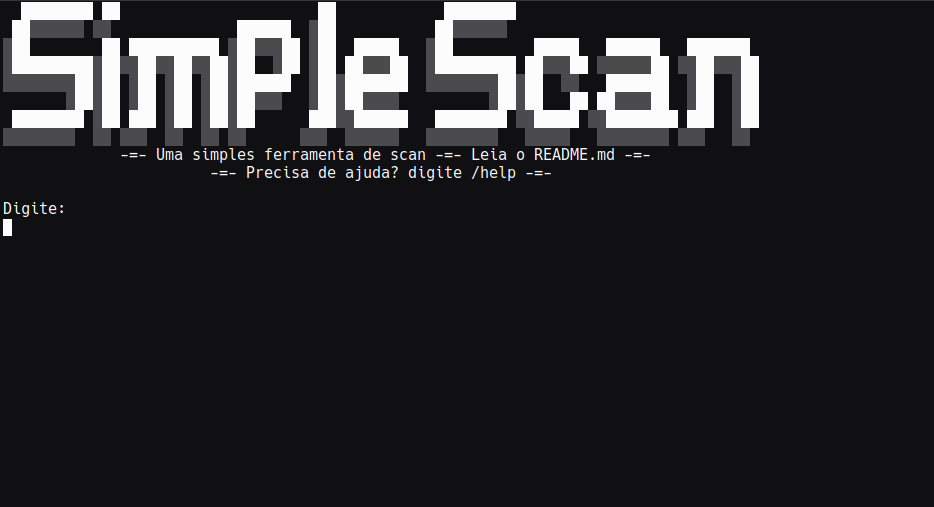
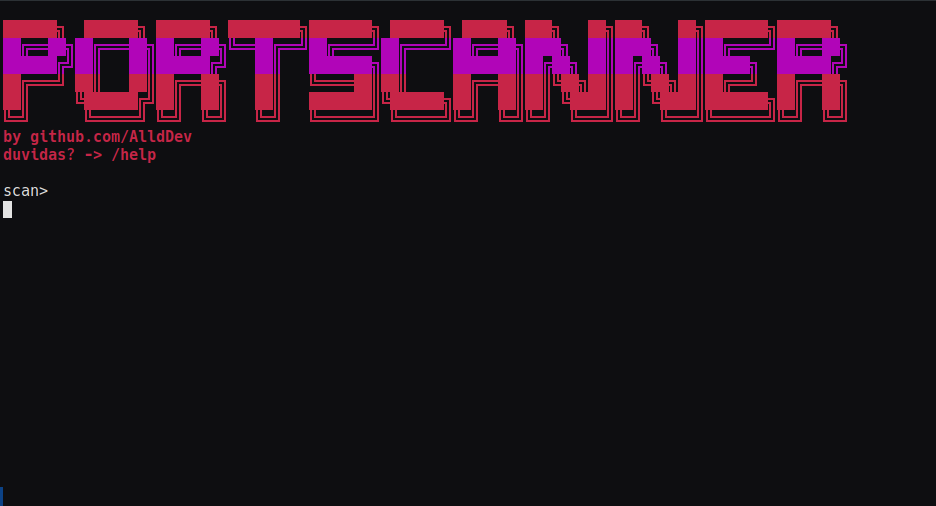
Mudando a interface!

Changed region(s): [[0.0, 0.0, 0.9315, 0.3557], [0.0, 0.3557, 0.0621, 0.4743], [0.0, 0.9783, 0.031, 1.0]]

diff --git a/portscanner.py b/portscanner.py
@@ -71,8 +71,7 @@ def menuExibir():
 def menuHelp():
     os.system('cls||clear')
     menuExibir()
-    print(f'''
-{cores['vermelho']}* MODO DE UTILIZAR{cores['limpar']}
+    print(f'''{cores['vermelho']}* MODO DE UTILIZAR{cores['limpar']}
 /scan {cores['verde']}<alvo>{cores['limpar']} -p {cores['azul']}<porta>{cores['limpar']} -m {cores['magenta']}<modo>{cores['limpar']}
 
 {cores['verde']}<alvo>{cores['limpar']}  - IP ou Domínio.
@@ -87,10 +86,7 @@ def menuHelp():
           {cores['amarelo']}normal{cores['limpar']} - (1s de timeout) - Recomendação PADRÃO.
           {cores['amarelo']}slow{cores['limpar']} - (3s de timeout) - Recomendado para PAGINAS WEB com respostas lenta
 {cores['vermelho']}* EXEMPLO{cores['limpar']}
-/scan {cores['verde']}seusite.com.br{cores['limpar']} -p {cores['azul']}default{cores['limpar']} -m {cores['magenta']}normal{cores['limpar']}
-        |
-    ou {cores['verde']}192.168.0.X{cores['limpar']}''')
-
+/scan {cores['verde']}seusite.com.br{cores['limpar']} -p {cores['azul']}default{cores['limpar']} -m {cores['magenta']}normal{cores['limpar']}''')
 
 def p_scan(_HOST, _PORT, _TIMEOUT):
     global _PORTS_OPEN
@@ -112,10 +108,8 @@ def p_scan(_HOST, _PORT, _TIMEOUT):
             except:
                 # Tentando conectar via UDP
                 try:
-                    # print('Tentando UDP')
                     soc = socket.socket(socket.AF_INET, socket.SOCK_DGRAM)
                     soc.settimeout(_TIMEOUT)
-                    # print('Scaneando porta [{}]'.format(_PORT[i]))
                     conn = soc.connect((_HOST, _PORT[i]))
                     data = conn.recv(1024)
                     # service = socket.getservbyport(_PORT[i])
@@ -124,7 +118,7 @@ def p_scan(_HOST, _PORT, _TIMEOUT):
                 except:
                     pass
     except:
-        print('Error ao realizar scan!!!')
+        print(f'''{cores['vermelho']}Error ao realizar scan!!!{cores['limpar']}''')
 
 
 def divider(lista):
@@ -149,10 +143,12 @@ def exibir(host, t_total):
     menuExibir()
 
     if tam <= 0:
-        print('Nenhuma porta aberta foi identificada! (Alguns endereços precisam de um timeout maior).')
+        print(f'''{cores['vermelho']}Nenhuma porta aberta foi identificada! (Alguns endereços precisam de um timeout maior).{cores['limpar']}''')
     else:
-        print('Host: {}\n'.format(host))
-        print('[STATUS] [PORTA]   [SERVIÇO EXECUTANDO]\n')
+        print(f'''{cores['amarelo']}Target: {host}
+
+{cores['vermelho']}[STATUS] [PORTA]   [SERVIÇO EXECUTANDO]{cores['limpar']}''')
+
 
         for i in range(tam):
             try:
@@ -160,7 +156,7 @@ def exibir(host, t_total):
 
                 desc = _DF.loc[str(_PORTS_OPEN[i]), ['Description']].iloc[1].iloc[0]
 
-                print('[Aberta] [{}] - {}'.format(_PORTS_OPEN[i], desc))
+                print(f'''{cores['vermelho']}[{cores['verde']}Aberta{cores['vermelho']}] [{cores['verde']}{_PORTS_OPEN[i]}{cores['vermelho']}] - {cores['verde']}{desc}{cores['limpar']}''')
 
 
             except:
@@ -170,11 +166,11 @@ def exibir(host, t_total):
                     soc.settimeout(3)
                     conn = soc.connect((host, _PORTS_OPEN[i]))
                     service = (socket.getservbyport(_PORTS_OPEN[i]))
-                    print('[Aberta] [{}] - {}'.format(host, service))
+                    print(f'[Aberta] [{host}] - {service}')
                     soc.close()
                 except:
-                    print('[Aberta] [{}] - Não identificada'.format(_PORTS_OPEN[i]))
-        print('\nScan concluido em {:.2f} segundos!'.format(t_total))
+                    print(f'''{cores['vermelho']}[{cores['verde']}Aberta{cores['vermelho']}] [{cores['verde']}{_PORTS_OPEN[i]}{cores['vermelho']}] - {cores['verde']}Não identificada{cores['limpar']}''')
+        print('\n{}Scan concluido em {:.2f} segundos!{}'.format(cores['amarelo'], t_total, cores['limpar']))
         _PORTS_OPEN = []  # Zerando o vetor para uma proxima verificação
 
 
@@ -215,7 +211,7 @@ if __name__ == "__main__":
     # Loop Principal
     #####################
     while True:
-        print('attack>')
+        print('scan>')
         data = sys.stdin.readline()
 
         # Se precisar de ajuda.
@@ -225,23 +221,22 @@ if __name__ == "__main__":
         # Se quiser fechar o sistema de maneira correta
         if data[:5] == '/exit':
             menuExibir()
-            print('Espero vê-lo em breve !!! Até mais ;D')
+            print(f'''{cores['azul']}Espero vê-lo em breve !!! Até mais ;D{cores['limpar']}''')
             sys.exit()
 
         # Para começar o Scan
         if data[:5] == '/scan':
             menuExibir()
             host, p, port, m, modo = data[6:].split()  # Divido a Entrada para tratar cada parte
-            # print('{}\n{}\n{}\n{}\n{}'.format(host, p, port, m, modo))
-            # ativo = ping_host(host)  # Verifico se o Host está ativo antes de começar
 
+            # ativo = ping_host(host)  # Verifico se o Host está ativo antes de começar
             # Se estiver ativo, ele começa a Scanear
             # (Desativado, Muitos hosts não responde Ping... deixei apenas if True para se um dia quiser voltar...)
             if True:
-                print('Iniciando Serviços...')
+                print(f'''{cores['vermelho']}Iniciando Serviços...{cores['limpar']}''')
                 try:
                     # host, port = data[6:].split(' ', 2)
-                    print('Scaneando Host {}.\nPor favor, Aguarde...'.format(host))
+                    print(f'''{cores['vermelho']}Scaneando Host {host}.\nPor favor, Aguarde...{cores['limpar']}''')
                     host_ip = get_ip(host)  # Aqui ele pega o IP caso o usuário tenha passado um Dominio
 
                     # Apenas Verifico para quando exibir aparecer o IP, ou se for dominio
@@ -264,21 +259,21 @@ if __name__ == "__main__":
                         for i in range(len(port)):
                             port_div.append(int(port[i]))
                         port = port_div
-                        print(port)
+                        #print(port)
                     else:
-                        print('Erro na declaração das portas!\nDuvidas digite /help.')
+                        print(f'''{cores['vermelho']}Erro na declaração das portas!\nDuvidas digite /help.''')
                         continue
 
                     # Verificando o modo selecionado
                     if m == '-m':
                         if modo == 'normal':
-                            timeout = 1
+                            timeout = 0.5
                         elif modo == 'fast':
                             timeout = 0.2
                         elif modo == 'slow':
-                            timeout = 3
+                            timeout = 2
                         else:
-                            print('Modo "{}" não existe!\nDuvidas digite /help.'.format(modo))
+                            print(f'''{cores['vermelho']}Modo "{modo}" não existe!\nDuvidas digite /help.{cores['limpar']}''')
 
                         # print('len de Ports {}'.format(len(port)))
 
@@ -290,24 +285,22 @@ if __name__ == "__main__":
                             _N_THREADS = os.cpu_count() * 2
 
                     else:
-                        print('Erro na declaração dos modos!\nDuvidas digite /help.')
+                        print(f'''{cores['vermelho']}Erro na declaração dos modos!\nDuvidas digite /help.{cores['limpar']}''')
                         continue
 
                 except:
-                    print('Erro na entrada!\nDuvidas digite /help.')
+                    print(f'''{cores['vermelho']}Erro na entrada!\nDuvidas digite /help.{cores['limpar']}''')
                     continue
 
                 ports = divider(port)  # Dividindo as portas pelo número de threads
 
                 t_inicio = time.time()
                 for i in range(_N_THREADS):
-                    # print('Thread {} Iniciada...'.format(i))
                     th.append(threading.Thread(
                         target=p_scan, args=(host_ip, ports[i], timeout)))
                     th[i].start()
 
                 for i in range(len(th)):
-                    # print('Aguardando Thread {} Terminar'.format(i))
                     th[i].join()
                 t_fim = time.time()
                 t_total = t_fim - t_inicio
@@ -320,4 +313,4 @@ if __name__ == "__main__":
                 _N_THREADS = os.cpu_count()  # Resetando o vetor de Threads
 
             else:
-                print('Falha geral! Contate o suporte!\n"la garantía soy yo."')
+                print(f'''{cores['vermelho']}Falha geral! Contate o suporte!\n"la garantía soy yo."{cores['limpar']}''')
